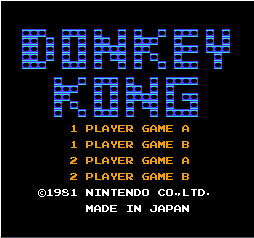
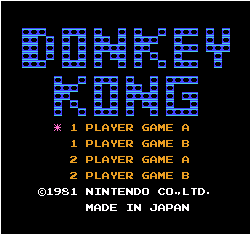
Added sprite rendering.
Sprite rendering seems to be working as intended. I may potentially have
an issue w/ multiple sprites being active in the same space. Updated
screenshots in screens directory.

diff --git a/src/ppu.c b/src/ppu.c
@@ -567,7 +567,7 @@ void render_pixel(PPU_Struct *p)
 	unsigned RGB = p->VRAM[bg_palette_addr + bg_palette_offset]; // Get values
 
 	/* Reverse Bits */
-	pixels[(p->cycle + (256 * p->scanline) - 1)] = 0xFF000000 | palette[RGB]; // Place in palette array, alpha set to 0xFF
+	//pixels[(p->cycle + (256 * p->scanline) - 1)] = 0xFF000000 | palette[RGB]; // Place in palette array, alpha set to 0xFF
 
 	/* Shift each cycle */
 	p->pt_hi_shift_reg >>= 1;
@@ -576,12 +576,21 @@ void render_pixel(PPU_Struct *p)
 	/* Sprite Stuff */
 	unsigned sprite_palette_offset[8] = {0, 0, 0, 0, 0, 0, 0};
 	// Is sprite active
-	for (int i = 0; i < 8; i++) {
+	for (int i = 7; i >= 0; i--) { // Low priority sprites first (high priority overwrites them)
 		if (p->sprite_x_counter[i] != 0) {
 			p->sprite_x_counter[i] -= 1;
 		} else {
 			sprite_palette_offset[i] = ((p->sprite_pt_hi_shift_reg[i] & 0x01) << 1) | (p->sprite_pt_lo_shift_reg[i] & 0x01);
 			//printf("DEBUG HI|LO AFTER: %X\n", sprite_palette_offset[0]);
+			// Render sprites
+			unsigned sprite_palette_addr = p->sprite_at_latches[i] & 0x03;
+			sprite_palette_addr <<= 2;
+			sprite_palette_addr += 0x3F10;
+			if ((((p->sprite_at_latches[i] & 0x20) == 0) || !bg_palette_offset) && sprite_palette_offset[i]) { // front priority 
+				RGB = p->VRAM[sprite_palette_addr + sprite_palette_offset[i]]; // Output sprite
+			} else if (((p->sprite_at_latches[i] & 0x20) == 0x20) && bg_palette_offset) {
+				RGB = p->VRAM[bg_palette_addr + bg_palette_offset]; // Get values
+			}
 			p->sprite_pt_lo_shift_reg[i] >>= 1;
 			p->sprite_pt_hi_shift_reg[i] >>= 1;
 		}
@@ -598,6 +607,8 @@ void render_pixel(PPU_Struct *p)
 		//printf("OVERLAP HERE: %d\n", p->cycle);
 		p->PPU_STATUS |= 0x40; // Sprite #0 hit
 	} 
+	// Send pixels to pixel buffer
+	pixels[(p->cycle + (256 * p->scanline) - 1)] = 0xFF000000 | palette[RGB]; // Place in palette array, alpha set to 0xFF
 }
 
 void ppu_transfer_oam(PPU_Struct* p, unsigned index)
@@ -797,7 +808,7 @@ void ppu_step(PPU_Struct *p, CPU_6502* NESCPU)
 					p->OAM_read_buffer = p->OAM[p->sprite_index * 4];
 					break;
 				case 0: //Even cycles
-					y_offset = p->scanline + 1 - p->OAM_read_buffer; // +1 for sprites on next scanline
+					y_offset = p->scanline - p->OAM_read_buffer; // Sprites are delayed by one scanline not rendered a scanline earlier
 					//y_offset = p->scanline - p->OAM_read_buffer; // +1 for sprites on next scanline
 					if ((p->OAM_read_buffer < 0xEF) && (y_offset >= 0) && (y_offset < ppu_sprite_height(p)) && (p->sprites_found <= 8) && !p->stop_early) {
 						ppu_transfer_oam(p, p->sprite_index);
